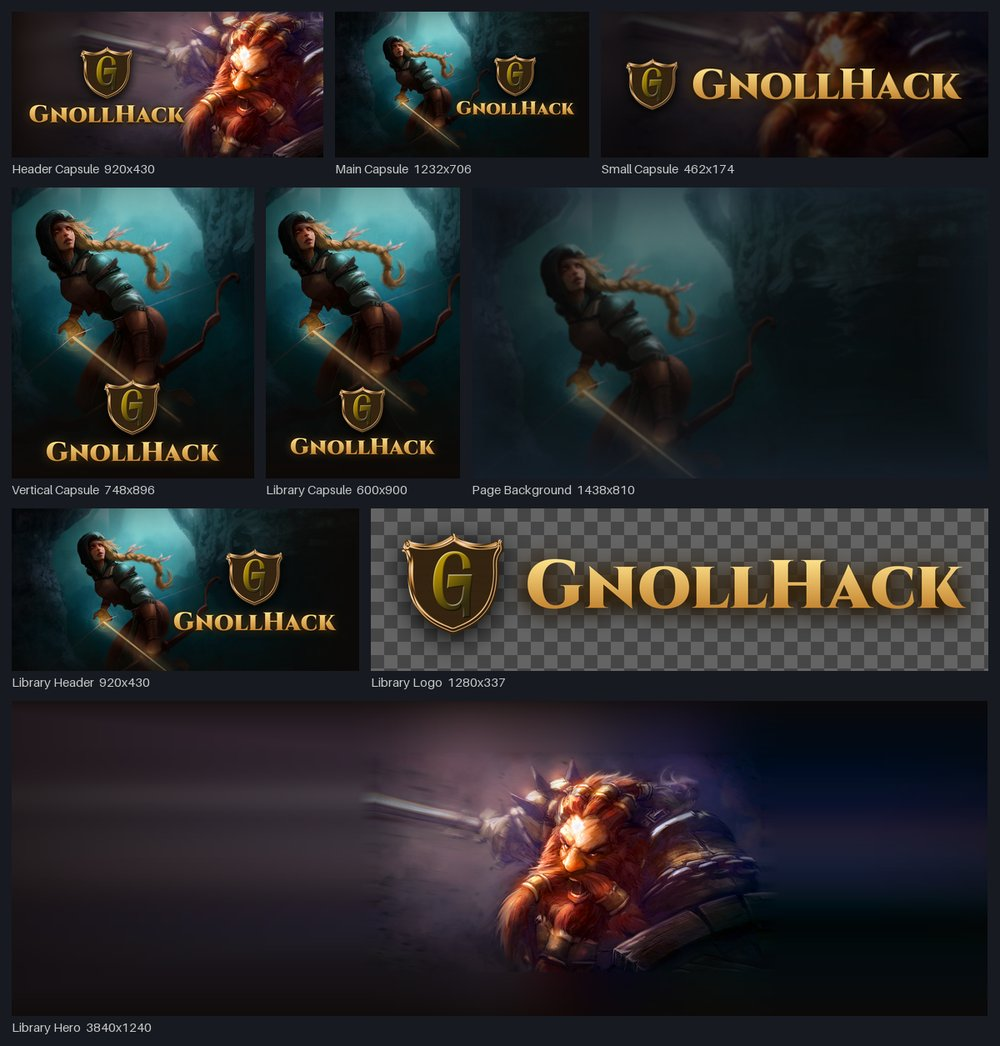
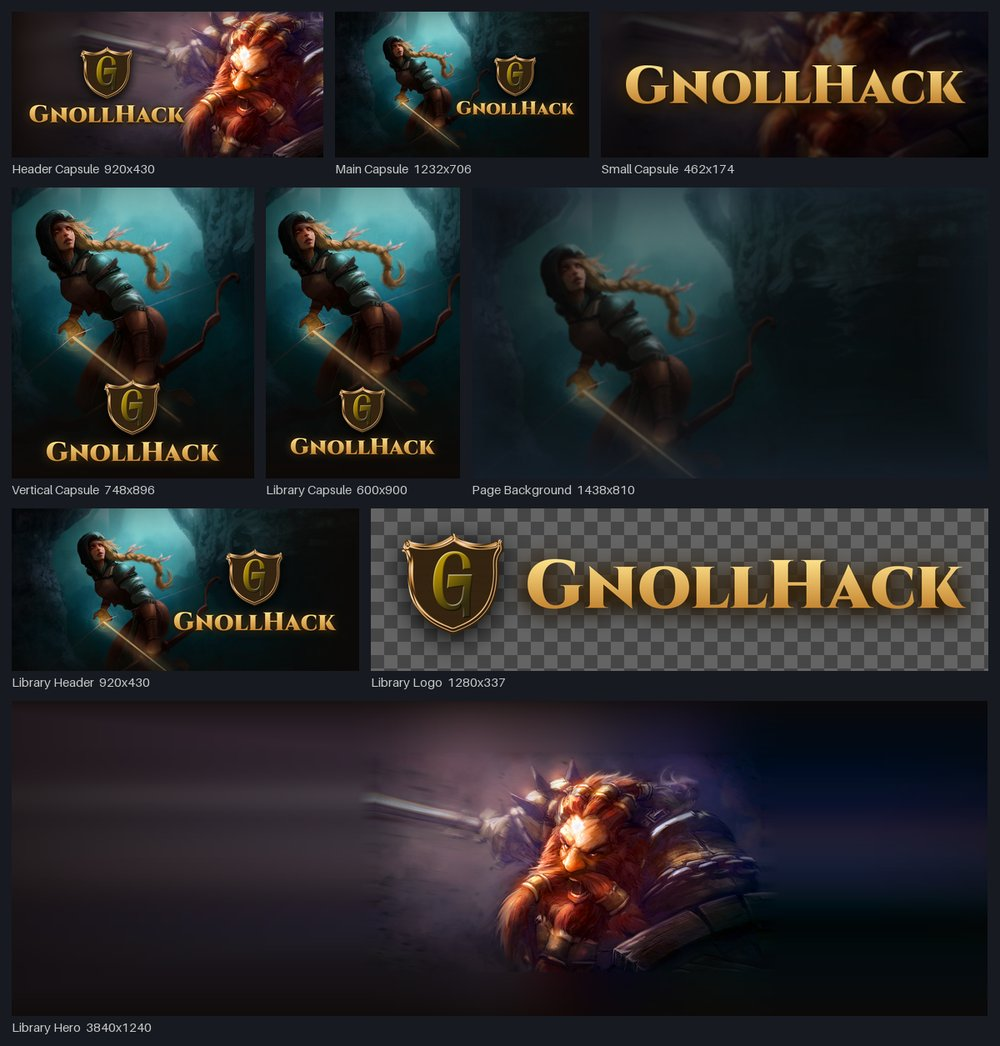
Update uploads/Development/AI/Steam Store Assets/make_steam_store_assets.py, Development/AI/Steam Store Assets.md, and uploads/Development/AI/Steam Store Assets/example_set.jpg to add a name-only lockup variant.

Changed region(s): [[0.62, 0.0612, 0.961, 0.1224]]

diff --git a/uploads/Development/AI/Steam Store Assets/make_steam_store_assets.py b/uploads/Development/AI/Steam Store Assets/make_steam_store_assets.py
@@ -43,7 +43,7 @@ PORTRAITS = {
 #   art: portrait file name without .png; focus: source point (fractions, default the face center)
 #   that lands at canvas point "at"; zoom: scale relative to the smallest scale that covers the canvas.
 #   Art that does not cover the canvas is extended with mirrored, blurred art.
-#   grade: see grade(). lockup: variant "horizontal" or "stacked", visible width in px,
+#   grade: see grade(). lockup: variant "horizontal", "stacked" or "name" (no shield), visible width in px,
 #   and the center of the visible lockup as canvas fractions; over_face allows it over the face.
 ASSETS = [
     {"name": "storeheader", "file": r"STORE\GH_STEAM_ASSET_STOREHEADER.png", "size": (920, 430),
@@ -53,7 +53,7 @@ ASSETS = [
     {"name": "smallcapsule", "file": r"STORE\GH_STEAM_ASSET_STORE_SMALLCAPSULE.png", "size": (462, 174),
      "art": "DwarfWarrior", "at": (0.62, 0.45), "zoom": 1.0,
      "grade": {"brightness": 0.36, "blur": 1.5, "edges": (40, 60, 40, 40)},
-     "lockup": {"variant": "horizontal", "width": 406, "center": (0.5, 0.5), "shield": 1.25, "over_face": True}},
+     "lockup": {"variant": "name", "width": 410, "center": (0.5, 0.5), "over_face": True}},
     {"name": "maincapsule", "file": r"STORE\GH_STEAM_ASSET_STORE_MAINCAPSULE.png", "size": (1232, 706),
      "art": "WomanRanger", "at": (0.25, 0.26), "zoom": 1.05,
      "grade": {"side": ("right", 0.62, 215), "edges": (50, 120, 30, 0)},
@@ -237,7 +237,7 @@ def grade(img, g):
 
 
 class Lockup:
-    """The GnollHack shield and the gold game name, rendered on a transparent layer."""
+    """The GnollHack shield and the gold game name, or the name alone, rendered on a transparent layer."""
 
     def __init__(self, gnollhack_repo):
         self.font_path = find_cinzel("Black")
@@ -251,6 +251,15 @@ class Lockup:
 
         width is the visible width in px; shield is the shield height per px of font size.
         """
+        if variant == "name":
+            size = int(width / self.name_width)
+            fnt = ImageFont.truetype(self.font_path, size)
+            bb = fnt.getbbox(GAME_NAME)
+            tw, th = bb[2] - bb[0], bb[3] - bb[1]
+            pad = round(size * 0.6 * shadow)
+            layer = Image.new("RGBA", (tw + 2 * pad, th + 2 * pad), (0, 0, 0, 0))
+            self._name(layer, fnt, pad - bb[0], pad - bb[1], size, shadow)
+            return layer, (pad, pad, pad + tw, pad + th)
         aspect = self.shield.width / self.shield.height
         if variant == "horizontal":
             shield = shield or 1.5

diff --git a/Development/AI/Steam Store Assets.md b/Development/AI/Steam Store Assets.md
@@ -36,9 +36,10 @@ Rules for all of them:
 
 Follow the style of [[/Development/AI/Steam Events and Announcements]], with these differences:
 
-- **Lockup.** The shield and the game name together. The name is "GnollHack" in **Cinzel Black** (Cinzel draws the lowercase letters as small capitals), with the gold gradient, a soft warm glow, and a soft dark drop shadow. The shield gets a soft drop shadow. There are two variants:
-  - **Horizontal:** The shield on the left, the name on the right, centered on the shield. Used for the Small Capsule and the Library Logo.
+- **Lockup.** The shield and the game name together. The name is "GnollHack" in **Cinzel Black** (Cinzel draws the lowercase letters as small capitals), with the gold gradient, a soft warm glow, and a soft dark drop shadow. The shield gets a soft drop shadow. There are three variants:
+  - **Horizontal:** The shield on the left, the name on the right, centered on the shield. Used for the Library Logo.
   - **Stacked:** The shield above the name, centered. Used for the Header Capsule, the Main and Vertical Capsules, the Library Capsule, and the Library Header.
+  - **Name:** The name alone, without the shield. Used for the Small Capsule.
 - **Shield file.** The GnollHack repository's `win/win32/xpl/GnollHackM/Assets/AppIcon/gnollhack-icon-v2-512-1240_x_1240.png`. It is the same shield as the event images' logo file, at 1171×1160 visible pixels, so it is never upscaled.
 - **Name size.** Make the name as large as the art and the margins allow. Players see most capsules at a fraction of their uploaded size, and the name is what they need to read and remember. In a stacked lockup, the name sets the width, so a smaller shield makes the lockup shorter without making the name smaller.
 - **No taglines.** The name is the only text on any image.
@@ -61,7 +62,7 @@ DwarfWarrior, with his face at 76% of the width and the art at the size that cov
 
 ### Small Capsule
 
-DwarfWarrior as a background texture only: brightness ×0.36 and a 1.5-pixel blur, so that the art does not compete with the name. The horizontal lockup spans 88% of the width (406 pixels) and is centered. The shield is smaller in relation to the name than in the other lockups (1.25 times the font size), so that the name can be as large as possible. Check that the name is readable at 120×45. If it is not, leave the shield out.
+DwarfWarrior as a background texture only: brightness ×0.36 and a 1.5-pixel blur, so that the art does not compete with the name. The name lockup, without the shield, is centered and spans 410 pixels, as wide as the 5% margins allow. At 120×45, a shield would be about 12 pixels tall and unrecognizable, and it would take a quarter of the width from the name. Check that the name is readable at 120×45.
 
 ### Main Capsule
 
@@ -168,7 +169,7 @@ Two tables at the top of the script set every image, so a change of portrait or 
 | **`zoom`** | The art's scale in relation to the smallest scale that covers the image. Below 1, the art is extended at the sides |
 | **`extend`** | How the art is extended: `mirror` (the default) or `smear`, which stretches the outermost columns and rows outward |
 | **`grade`** | Contrast, saturation, brightness, blur, highlight compression, the darkened side, and the darkened edges and corner |
-| **`lockup`** | The variant (`horizontal` or `stacked`), the visible width in pixels, the center as fractions of the image, and optionally the shield size in relation to the font size and the shadow strength |
+| **`lockup`** | The variant (`horizontal`, `stacked`, or `name`), the visible width in pixels, the center as fractions of the image, and optionally the shield size in relation to the font size and the shadow strength |
 
 The script stops if a portrait would be upscaled. It checks the size and color mode of every image it writes, and it prints a warning when:
 
